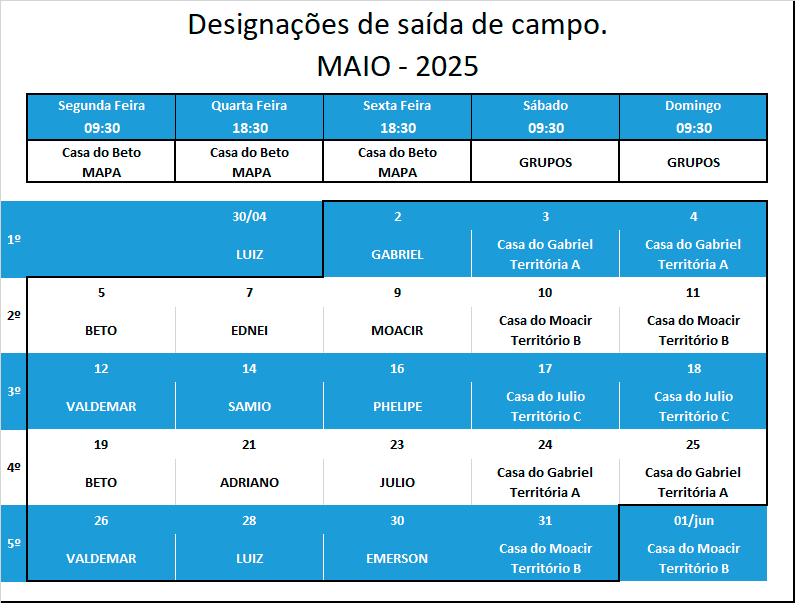
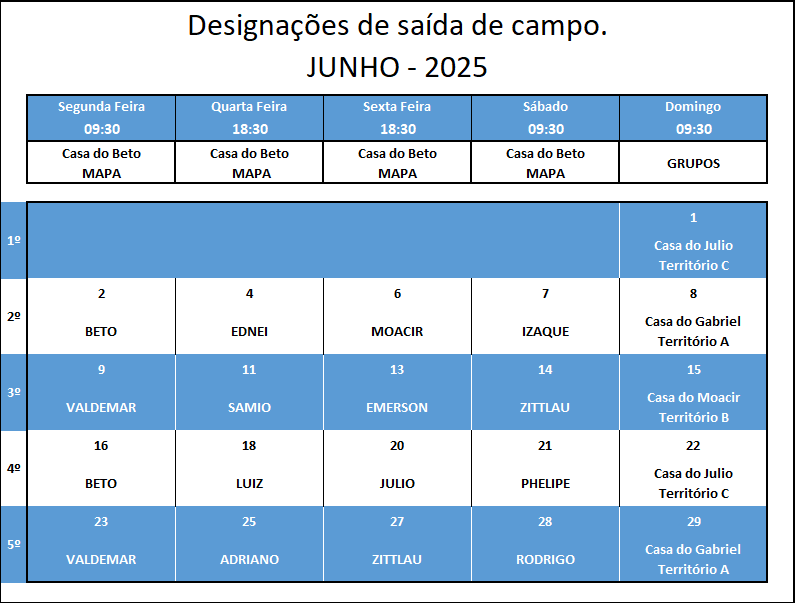
Atualizado imagem de designações de campo e endereço não bater retornou para o mapa A4

diff --git a/a-itaquera/a4.html b/a-itaquera/a4.html
@@ -109,19 +109,25 @@
                 </tr>
                 <tr>
                     <td class="linha-verde">6</td>
+                    <td class="linha-verde">R. Severino Arboleya Imbernon, 288</td>
+                    <td class="linha-verde"></td>
+                    <td class="linha-verde"><a href="https://maps.app.goo.gl/BLmrVzTT8iR1ZpYdA" target="_blank"><i class="bi bi-geo-alt-fill"></i></a></td>
+                </tr>
+                <tr>
+                    <td class="linha-verde">7</td>
                     <td class="linha-verde">R. Sestílio Melani, 460</td>
                     <td class="linha-verde">Casa da esquina</td>
                     <td class="linha-verde"><a href="https://maps.app.goo.gl/nMurEUi6Q59qNs1d8" target="_blank"><i class="bi bi-geo-alt-fill"></i></a></td>
                 </tr>
                 <tr>
-                    <td class="linha-verde">7</td>
+                    <td class="linha-verde">8</td>
                     <td class="linha-verde">R. Monte Car, 1547</td>
                     <td class="linha-verde"></td>
                     <td class="linha-verde"><a href="https://maps.app.goo.gl/F9oF6x78X6ovhr957" target="_blank"><i class="bi bi-geo-alt-fill"></i></a></td>
                 </tr>
             </table>
 
-            <div class="nao-bater">
+            <div class="nao-bater" style="display: none;">
                 <h3>NÃO BATER</h3>
                 <div class="item-nao-bater">
                     <table>
